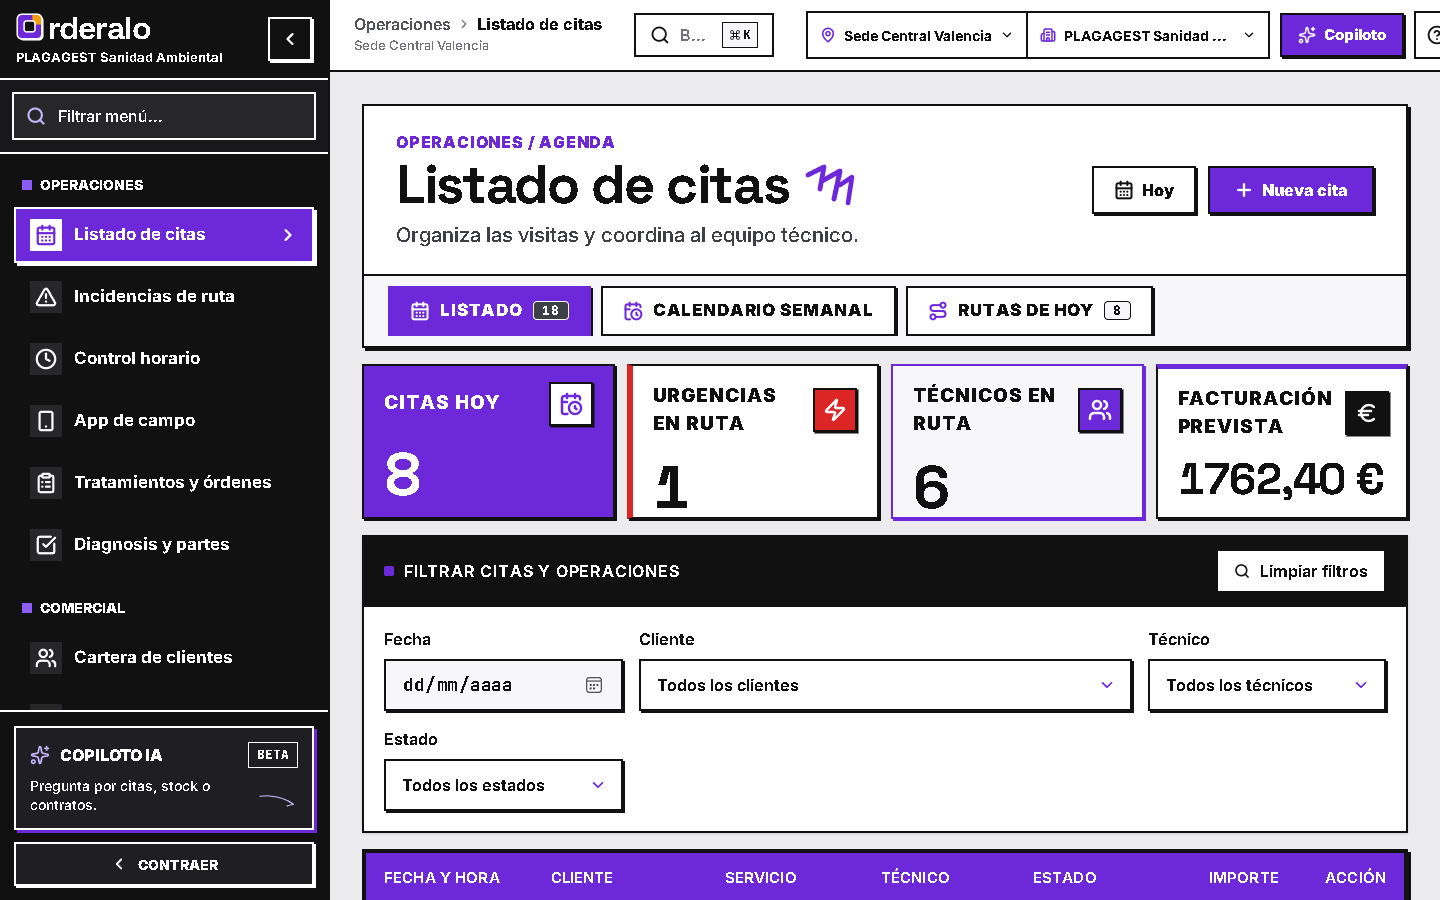
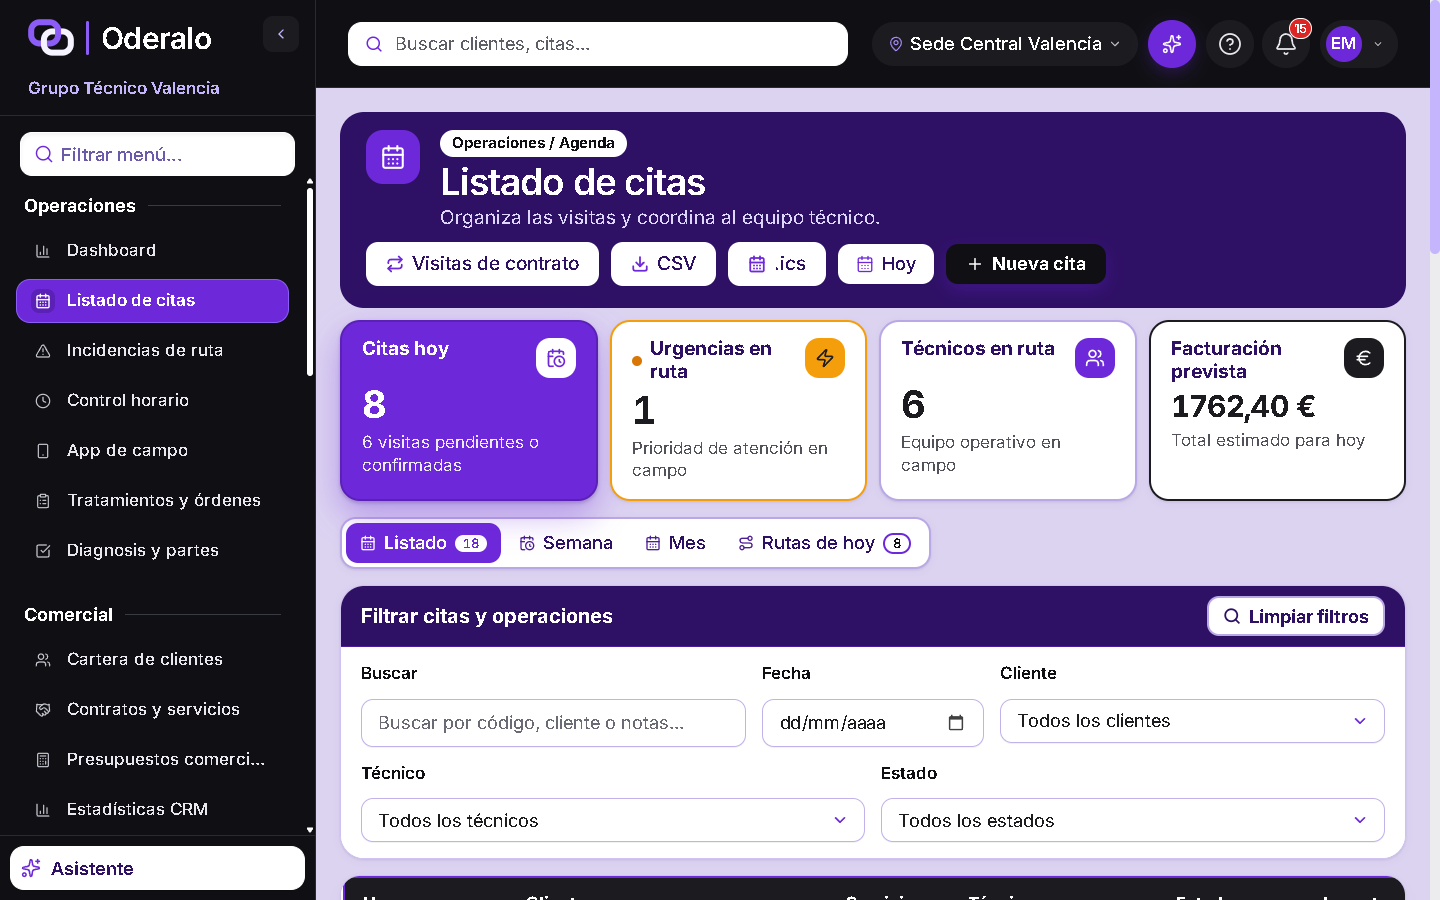
feat(erp): capturas actuales de la app (demo) y ajuste de huecos a 1440

diff --git a/src/components/OderaloSection.tsx b/src/components/OderaloSection.tsx
@@ -49,7 +49,7 @@ export function OderaloSection() {
     <section
       id="erp"
       onPointerMove={onMove}
-      className="relative scroll-mt-[62px] overflow-hidden border-t-[3px] border-[#09090B] py-12 text-white sm:py-14 lg:pt-16 lg:pb-[15rem]"
+      className="relative scroll-mt-[62px] overflow-hidden border-t-[3px] border-[#09090B] py-12 text-white sm:py-14 lg:pt-16 lg:pb-[12rem]"
       style={{ background: VIOLET }}
     >
       {/* Palabra gigante en contorno: las pantallas la cruzan */}
@@ -77,7 +77,7 @@ export function OderaloSection() {
       />
 
       <div className="relative mx-auto w-full max-w-[1560px] px-6 sm:px-10">
-        <div className="grid items-center gap-14 lg:grid-cols-12 lg:gap-16 xl:gap-24">
+        <div className="grid items-center gap-14 lg:grid-cols-12 lg:gap-10 xl:gap-12 min-[1700px]:gap-24">
           {/* Texto */}
           <motion.div
             initial={reduce ? false : { opacity: 0, y: 36 }}
@@ -150,7 +150,7 @@ export function OderaloSection() {
 
               <motion.div
                 style={{ x: reduce ? 0 : phoneX }}
-                className="absolute -bottom-2 -left-2 z-20 w-[32%] max-w-[200px] min-w-[120px] sm:-left-6 lg:-bottom-6 lg:left-4"
+                className="absolute -bottom-2 -left-2 z-20 w-[32%] max-w-[200px] min-w-[120px] sm:-left-6 lg:-bottom-6 lg:-left-8"
               >
                 <div
                   className="overflow-hidden rounded-[26px] border-[3px] border-[#09090B] bg-[#09090B] p-1.5 shadow-[8px_8px_0_#C6F432]"
